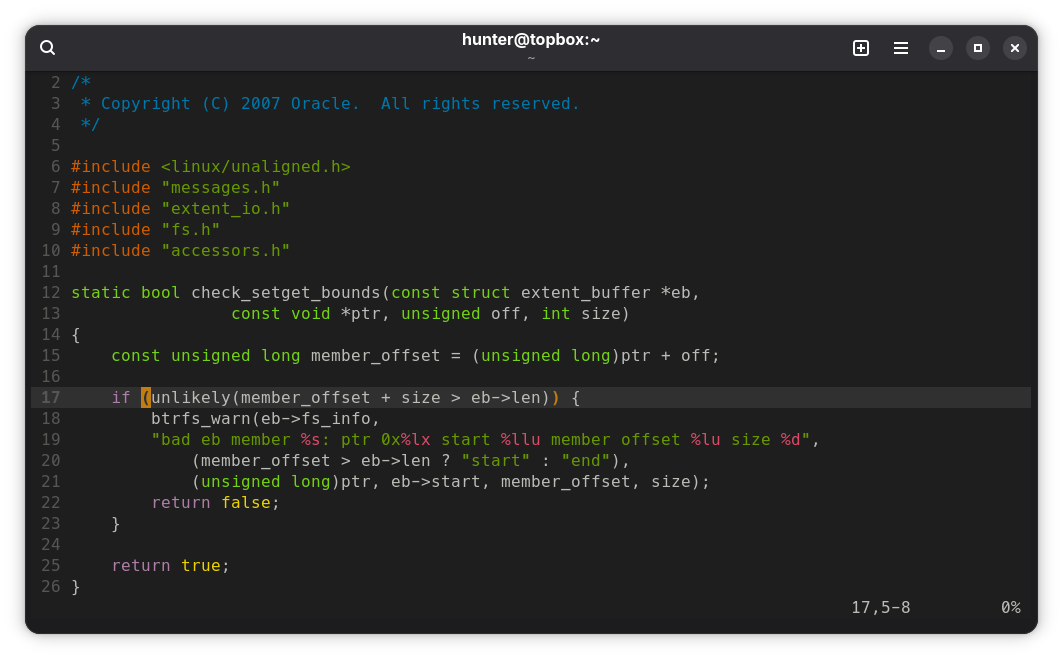
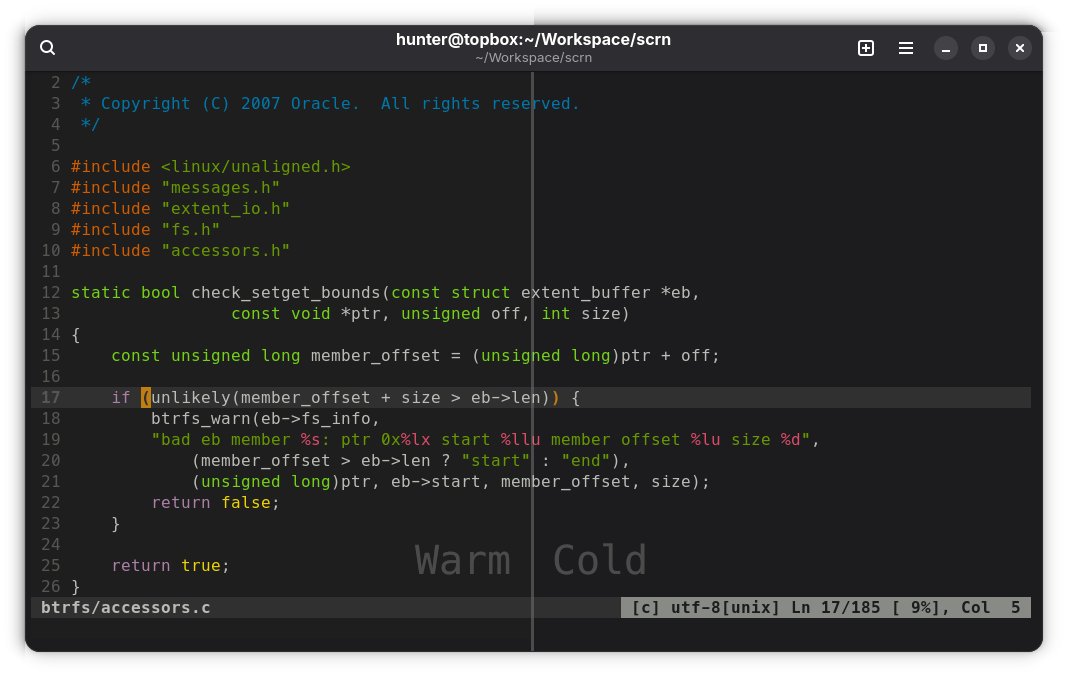
Rename builder-dark.vim to builder-dark-warm.vim and introduce builder-dark-cold.vim variant

diff --git a/README.md b/README.md
@@ -4,16 +4,25 @@
 
 builder-dark.vim is a vim color scheme based on the builder-dark theme 
 from Gnome Builder (which is itself based on freedesktop.org's Tango 
-color palette).
+color palette). builder-dark comes in two variants: builder-dark-warm and builder-dark-cold.
 
 This color scheme requires full color support in your terminal of 
 choice.
 
 ### Installation
 
-Copy `colors/builder-dark.vim` to `~/.vim/colors/` then add the following to your `~/.vimrc` file:
+Copy `colors/builder-dark-*.vim` to `~/.vim/colors/` then add the following to your `~/.vimrc` file:
 
 ```
 syntax on
-colorscheme builder-dark
+colorscheme builder-dark-warm
 ```
+*For the warm variant*
+
+Or
+
+```
+syntax on
+colorscheme builder-dark-cold
+```
+*For the cold variant*
